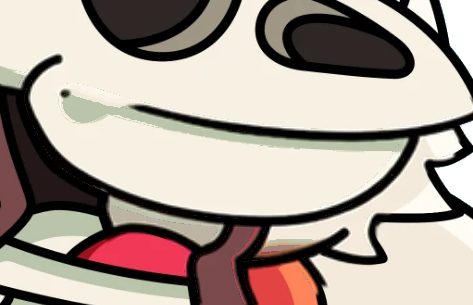
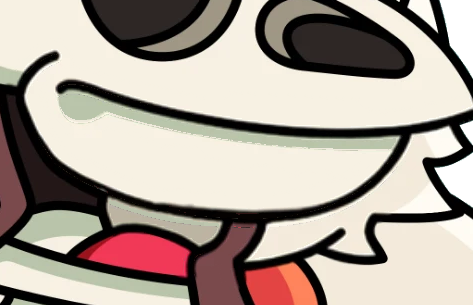
Anatomy Cock #8637: the wattle stays still (only the heart beats); its smeared mouths swapped for clean ones
M/B/P, O, OO, L and frown came out of the sheet blurred (beak outline lost, a ghost mouth through the beak): they now reuse its clean closed, wide-open and half-open mouths.

Claude-Session: https://claude.ai/code/session_01AAjfD4JXrwKrGtAMJHTTVa

Changed region(s): [[0.0, 0.1475, 1.0, 1.0]]

diff --git a/fx.js b/fx.js
@@ -20,7 +20,7 @@ export const FX_HAND = {
   5900: { lights:[[500, 215, 45, '#ff3b30'], [150, 240, 26, '#ffffff'], [560, 400, 150, '#ffd23f']] },   // red antenna light, eyes
   8482: { lights:[[602, 168, 30, '#ffffff'], [560, 440, 120, '#3cff5a'], [470, 900, 110, '#3cff5a']] },  // antenna, visor, chest screen
   794:  { heart:true }, 1998:{ heart:true }, 3538:{ heart:true }, 5807:{ heart:true },
-  7192: { heart:true }, 7813:{ heart:true }, 8617:{ heart:true }, 8637:{ heart:true },
+  7192: { heart:true }, 7813:{ heart:true }, 8617:{ heart:true }, 8637:{ heart:{ x1:530 } },   // (8637: the wattle beside the heart is red too, and stays still)
 };
 // where steam comes out of the ears, by kind: [x, y, direction x, direction y]
 const STEAM = {
@@ -200,7 +200,7 @@ export function prepareFx(base, traits = {}, hand = null) {
     const bx = [Math.max(0, x - r), Math.max(0, y - r), Math.min(N - 1, x + r), Math.min(N - 1, y + r)];
     return { x, y, r, col, img:sprite(d, m.map(v => v), bx), box:bx, ph:k * 1.7 }; }) });
   if (hand && hand.heart) {
-    const red = new Uint8Array(N * N); for (let y = 520; y < N; y++) for (let x = 0; x < N; x++) { const i = y * N + x, r = d[i * 4], g = d[i * 4 + 1], b = d[i * 4 + 2]; if (A(i) > 200 && r > 165 && g < 95 && b < 105) red[i] = 1; }
+    const red = new Uint8Array(N * N); for (let y = 520; y < N; y++) for (let x = 0; x < N; x++) { const i = y * N + x, r = d[i * 4], g = d[i * 4 + 1], b = d[i * 4 + 2]; if (A(i) > 200 && r > 165 && g < 95 && b < 105 && !(hand.heart.x1 && x > hand.heart.x1)) red[i] = 1; }
     const ps = parts(red, 60).sort((a, b) => b.n - a.n);
     if (ps.length) {   // the heart shows in pieces between the ribs: the biggest red piece and every red piece close to it
       const [a0, b0, a1, b1] = ps[0].box, close = ps.filter(q => q.box[0] < a1 + 70 && q.box[2] > a0 - 70 && q.box[1] < b1 + 90 && q.box[3] > b0 - 90);

diff --git a/index.html b/index.html
@@ -418,7 +418,7 @@ header .credit b{font-weight:400}
 // Config
 // ---------------------------------------------------------------------------
 const MP_VERSION = '0.10.14';
-const ART_V = '20261116-2000';   // bump when art changes, so phones never show old cached frames
+const ART_V = '20261116-2100';   // bump when art changes, so phones never show old cached frames
 const MP_MODEL = 'https://storage.googleapis.com/mediapipe-models/face_landmarker/face_landmarker/float16/1/face_landmarker.task';
 
 // Each Nibble: eye layers e0–e4 and ten whole-face mouth frames m0–m9, all lined up at 1000×1000.
